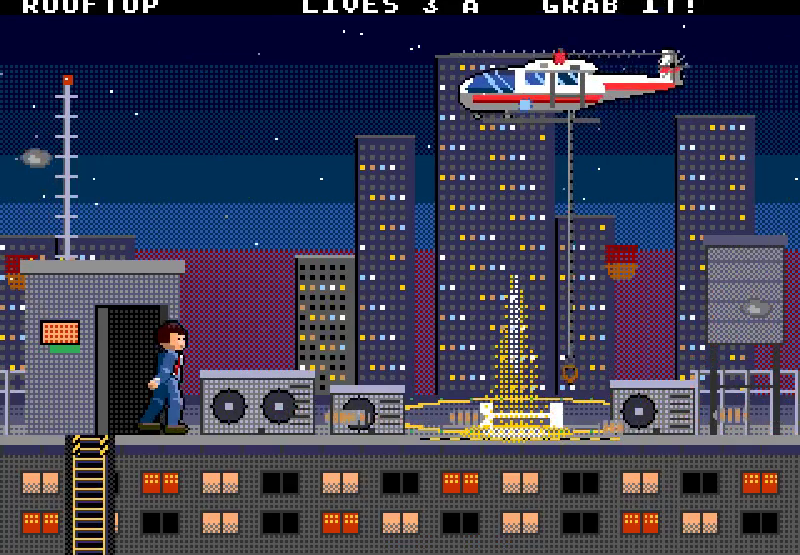
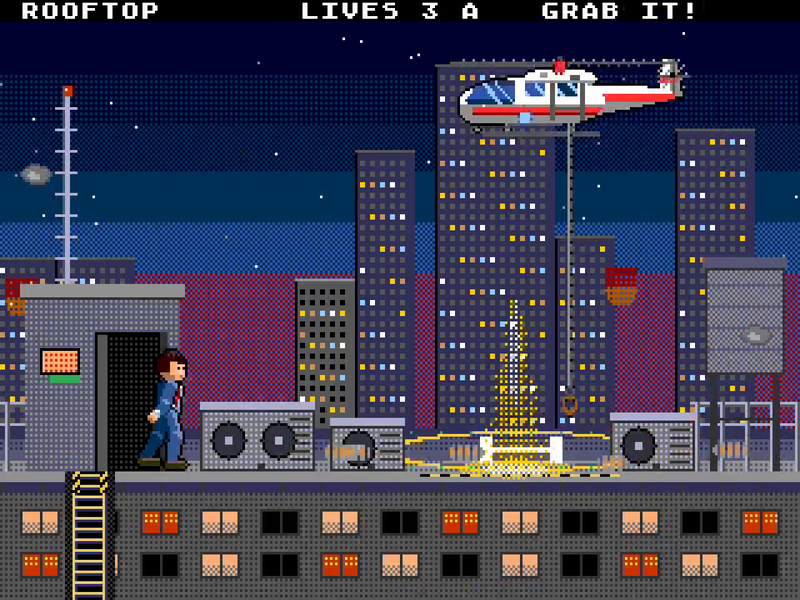
Display original game screenshots at a true 4:3 aspect ratio
Convert the eight 800x555 captures to 800x600 by recovering the 320x224
active area and stretching it as a 4:3 TV would, then fix .shots img CSS
(height:auto, aspect-ratio:4/3) so desktop layout no longer uses the old
HTML height attribute as a fixed box.

diff --git a/games.html b/games.html
@@ -94,7 +94,14 @@
             margin: 1.4rem 0 1.6rem;
         }
         .shots figure { margin: 0; background: #0d1520; border: 1px solid #2a3a4a; border-radius: 12px; overflow: hidden; }
-        .shots img { width: 100%; display: block; image-rendering: pixelated; }
+        .shots img {
+            width: 100%;
+            height: auto;
+            aspect-ratio: 4 / 3;
+            object-fit: contain;
+            display: block;
+            image-rendering: auto;
+        }
         .shots figcaption { text-align: center; color: #7f8ea3; font-size: 0.85rem; padding: 0.5rem 0.6rem 0.7rem; }
         h3 { color: #00ff88; font-size: 1.15rem; margin: 1.4rem 0 0.6rem; }
         table.controls { width: 100%; border-collapse: collapse; margin: 0.4rem 0 0.8rem; }
@@ -176,19 +183,19 @@
             <p>災害（地震と火事）に襲われた高層ビルで、会社員の主人公が2階から屋上まで登り、ヘリコプターで救出されるまでを遊びます。導入では、1階のロビーからエレベーターに乗り、2階に着いた直後に1階で大爆発が起きます（導入は START で飛ばせます）。</p>
             <div class="shots">
                 <figure>
-                    <img src="images/games/building_title.png" alt="ザ・ビルディングのタイトル画面。夜の街と燃える高層ビル、ヘリコプター" width="800" height="555">
+                    <img src="images/games/building_title.png" alt="ザ・ビルディングのタイトル画面。夜の街と燃える高層ビル、ヘリコプター" width="800" height="600">
                     <figcaption>タイトル画面</figcaption>
                 </figure>
                 <figure>
-                    <img src="images/games/building_lobby.png" alt="導入の1階ロビー。受付を横切り、エレベーターへ向かう主人公" width="800" height="555">
+                    <img src="images/games/building_lobby.png" alt="導入の1階ロビー。受付を横切り、エレベーターへ向かう主人公" width="800" height="600">
                     <figcaption>導入：1階ロビー</figcaption>
                 </figure>
                 <figure>
-                    <img src="images/games/building_stage1.png" alt="ステージ1のオフィスフロア。下から火が迫り、主人公がエレベーターの前に立っている" width="800" height="555">
+                    <img src="images/games/building_stage1.png" alt="ステージ1のオフィスフロア。下から火が迫り、主人公がエレベーターの前に立っている" width="800" height="600">
                     <figcaption>ステージ1（2〜4階）</figcaption>
                 </figure>
                 <figure>
-                    <img src="images/games/building_rooftop.png" alt="屋上。縄ばしごを下ろしたヘリコプターと、つかまれという表示" width="800" height="555">
+                    <img src="images/games/building_rooftop.png" alt="屋上。縄ばしごを下ろしたヘリコプターと、つかまれという表示" width="800" height="600">
                     <figcaption>屋上：ヘリによる救出</figcaption>
                 </figure>
             </div>
@@ -236,19 +243,19 @@
             <p>画面中央のドラムセットを、パッドの各ボタンで叩くだけのシンプルなドラムです。フリー演奏のほか、オリジナル3曲に合わせて叩けるセッションと、ボタンのわりあてを変えるオプションがあります。</p>
             <div class="shots">
                 <figure>
-                    <img src="images/games/drum_title.png" alt="シンプルドラムのタイトル画面。フリー、セッション、オプションのメニューとドラムセット" width="800" height="555">
+                    <img src="images/games/drum_title.png" alt="シンプルドラムのタイトル画面。フリー、セッション、オプションのメニューとドラムセット" width="800" height="600">
                     <figcaption>タイトル画面</figcaption>
                 </figure>
                 <figure>
-                    <img src="images/games/drum_play.png" alt="フリー演奏の画面。ドラムの各パーツにボタンのわりあてが表示されている" width="800" height="555">
+                    <img src="images/games/drum_play.png" alt="フリー演奏の画面。ドラムの各パーツにボタンのわりあてが表示されている" width="800" height="600">
                     <figcaption>フリー演奏</figcaption>
                 </figure>
                 <figure>
-                    <img src="images/games/drum_select.png" alt="セッションの曲選択画面。ロック8ビート、ハードシャッフル、スローブルース" width="800" height="555">
+                    <img src="images/games/drum_select.png" alt="セッションの曲選択画面。ロック8ビート、ハードシャッフル、スローブルース" width="800" height="600">
                     <figcaption>セッション：曲の選択</figcaption>
                 </figure>
                 <figure>
-                    <img src="images/games/drum_session.png" alt="セッション演奏中。キックを叩いた瞬間と、右側のギタリスト、左上のグルーヴメーター" width="800" height="555">
+                    <img src="images/games/drum_session.png" alt="セッション演奏中。キックを叩いた瞬間と、右側のギタリスト、左上のグルーヴメーター" width="800" height="600">
                     <figcaption>セッション演奏中</figcaption>
                 </figure>
             </div>

diff --git a/en/games.html b/en/games.html
@@ -94,7 +94,14 @@
             margin: 1.4rem 0 1.6rem;
         }
         .shots figure { margin: 0; background: #0d1520; border: 1px solid #2a3a4a; border-radius: 12px; overflow: hidden; }
-        .shots img { width: 100%; display: block; image-rendering: pixelated; }
+        .shots img {
+            width: 100%;
+            height: auto;
+            aspect-ratio: 4 / 3;
+            object-fit: contain;
+            display: block;
+            image-rendering: auto;
+        }
         .shots figcaption { text-align: center; color: #7f8ea3; font-size: 0.85rem; padding: 0.5rem 0.6rem 0.7rem; }
         h3 { color: #00ff88; font-size: 1.15rem; margin: 1.4rem 0 0.6rem; }
         table.controls { width: 100%; border-collapse: collapse; margin: 0.4rem 0 0.8rem; }
@@ -176,19 +183,19 @@
             <p>You play an office worker climbing from the 2nd floor to the rooftop of a high-rise hit by disaster (earthquake and fire), then escaping by helicopter. The intro takes you from the 1st-floor lobby into an elevator; just after you reach the 2nd floor, a large explosion hits the 1st floor (you can skip the intro with START).</p>
             <div class="shots">
                 <figure>
-                    <img src="../images/games/building_title.png" alt="Title screen of The Building: a night skyline, a burning tower, and a helicopter" width="800" height="555">
+                    <img src="../images/games/building_title.png" alt="Title screen of The Building: a night skyline, a burning tower, and a helicopter" width="800" height="600">
                     <figcaption>Title screen</figcaption>
                 </figure>
                 <figure>
-                    <img src="../images/games/building_lobby.png" alt="Intro on the 1st-floor lobby, with the hero walking toward the elevator" width="800" height="555">
+                    <img src="../images/games/building_lobby.png" alt="Intro on the 1st-floor lobby, with the hero walking toward the elevator" width="800" height="600">
                     <figcaption>Intro: 1st-floor lobby</figcaption>
                 </figure>
                 <figure>
-                    <img src="../images/games/building_stage1.png" alt="Stage 1 office floors, with fire rising from below and the hero by the elevator" width="800" height="555">
+                    <img src="../images/games/building_stage1.png" alt="Stage 1 office floors, with fire rising from below and the hero by the elevator" width="800" height="600">
                     <figcaption>Stage 1 (floors 2–4)</figcaption>
                 </figure>
                 <figure>
-                    <img src="../images/games/building_rooftop.png" alt="The rooftop, with a helicopter lowering a rope ladder and a prompt to grab it" width="800" height="555">
+                    <img src="../images/games/building_rooftop.png" alt="The rooftop, with a helicopter lowering a rope ladder and a prompt to grab it" width="800" height="600">
                     <figcaption>Rooftop rescue</figcaption>
                 </figure>
             </div>
@@ -236,19 +243,19 @@
             <p>A simple drum kit in the middle of the screen, played with the buttons on your pad. You can play freely, drum along with three original tracks in Session, or change the button mapping in Option.</p>
             <div class="shots">
                 <figure>
-                    <img src="../images/games/drum_title.png" alt="Simple Drum title screen, with Free, Session and Option, and the drum kit" width="800" height="555">
+                    <img src="../images/games/drum_title.png" alt="Simple Drum title screen, with Free, Session and Option, and the drum kit" width="800" height="600">
                     <figcaption>Title screen</figcaption>
                 </figure>
                 <figure>
-                    <img src="../images/games/drum_play.png" alt="Free play, with button labels on each part of the kit" width="800" height="555">
+                    <img src="../images/games/drum_play.png" alt="Free play, with button labels on each part of the kit" width="800" height="600">
                     <figcaption>Free play</figcaption>
                 </figure>
                 <figure>
-                    <img src="../images/games/drum_select.png" alt="Session track select: Rock 8-beat, Hard shuffle and Slow blues" width="800" height="555">
+                    <img src="../images/games/drum_select.png" alt="Session track select: Rock 8-beat, Hard shuffle and Slow blues" width="800" height="600">
                     <figcaption>Session: track select</figcaption>
                 </figure>
                 <figure>
-                    <img src="../images/games/drum_session.png" alt="Session play, with a kick hit, a guitarist on the right, and a groove meter" width="800" height="555">
+                    <img src="../images/games/drum_session.png" alt="Session play, with a kick hit, a guitarist on the right, and a groove meter" width="800" height="600">
                     <figcaption>Session in progress</figcaption>
                 </figure>
             </div>
